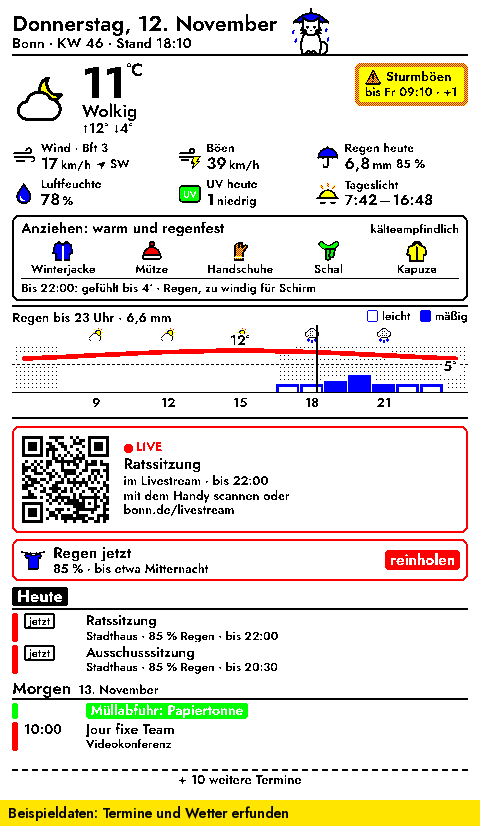
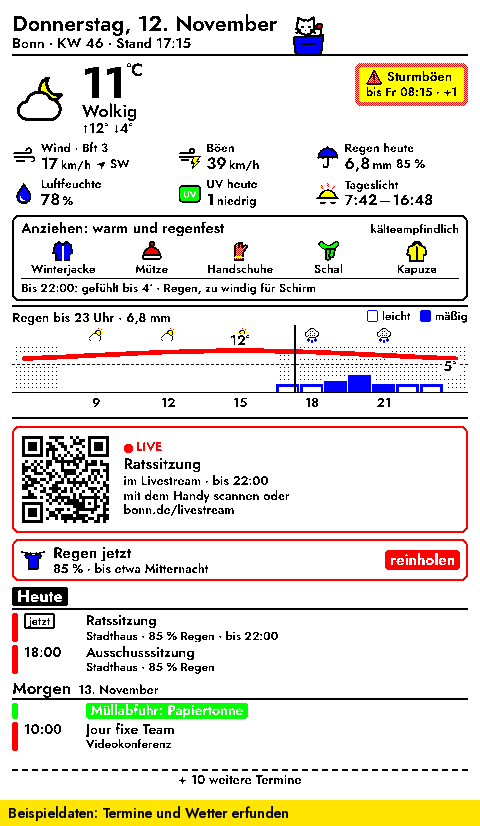
1.27: Katze in der Ratssitzung
Solange die Livestream-Karte zur Ratssitzung steht, steht die Katze am
Rednerpult; ab 21 Uhr schläft sie auf einem Stapel Aktenordner. Wie die
anderen Anlässe nur auf jedem zweiten Takt, aber vor Osterei und Wetter
(Geburtstag > Ratssitzung > Osterei > Wetter > Anlässe > Alltag).
Keine neue Einstellung (cfgVersion 20). Ohne Sitzung pixelgleich zu 1.26.

Neu: Posen rednerpult und akten in katze.py, Anlass „rat“; Livestream-Block
vor die Katzenwahl gezogen; Tests in dev/test_katze.py; docs/katze_posen.png
(26 Posen) und docs/livestream_*.png neu.

Claude-Session: https://claude.ai/code/session_01XTVaJp3hLhCWEFfKwqVFMA

diff --git a/tagesdashboard/katze.py b/tagesdashboard/katze.py
@@ -396,6 +396,28 @@ def grundgesetz():
     return 40, 44, _sitting_body() + _head(20, 13) + book + paws
 
 
+# ---------------------------------------------------------------- Ratssitzung (seit 1.27, solange die Livestream-Karte steht)
+
+def rednerpult():
+    """Spricht am Rednerpult ins Mikrofon: breites blaues Pult verdeckt den Körper, großer roter
+    Mikrofonkopf am Schwanenhals rechts neben dem Gesicht."""
+    desk = (f'<path fill="{BLUE}" stroke="currentColor" d="M3 23.5 L37 21 L34.5 43.5 H5.5 Z"/>'
+            f'<path {L} d="M13 31 H27"/>')
+    mic = (f'<path {L} d="M33.5 21.5 Q35.5 15 33.5 12.5"/>'
+           f'<circle fill="{RED}" stroke="currentColor" cx="32.5" cy="10.5" r="3"/>')
+    return 41, 44, _head(17, 12) + desk + mic
+
+
+def akten():
+    """Spät in der Ratssitzung (ab RAT_LATE_HOUR): schläft auf einem Stapel bunter Aktenordner."""
+    w, h, cat = schlaeft()
+    stack = (f'<path fill="{BLUE}" stroke="currentColor" d="M4 30 H46 V34.5 H4 Z"/>'
+             f'<path fill="{RED}" stroke="currentColor" d="M7 34.5 H49 V39 H7 Z"/>'
+             f'<path fill="{YELLOW}" stroke="currentColor" d="M3 39 H45 V43.5 H3 Z"/>'
+             f'<path {L} d="M38 32.2 H42 M41 36.7 H45 M37 41.2 H41"/>')
+    return 54, 44, f'<g transform="translate(0 1)">{cat}</g>' + stack
+
+
 POSES = {
     "sitzt": sitzt, "putzt": putzt, "schmetterling": schmetterling, "schläft": schlaeft,
     "kastenbrot": kastenbrot, "lugt": lugt, "spielt": spielt, "streckt": streckt,
@@ -406,6 +428,8 @@ POSES = {
     # Ostereier (seit 1.24): nie zufällig, nur an ihrem Tag (ostereier.today)
     "narr": narr, "dirigent": dirigent, "schwarz": schwarz, "himbeerkuchen": himbeerkuchen,
     "kürbis": kuerbis, "grundgesetz": grundgesetz,
+    # Ratssitzung (seit 1.27): nur über choose(occasions=["rat"]), nie zufällig
+    "rednerpult": rednerpult, "akten": akten,
 }
 # Ostereier (seit 1.24): nur über choose(egg=…); geheim, darum auch nicht auf dem Posen-Bogen für die README
 EGG_POSES = ("narr", "dirigent", "schwarz", "himbeerkuchen", "kürbis", "grundgesetz")
@@ -416,6 +440,9 @@ EVERYDAY = ["sitzt", "putzt", "schmetterling", "gähnt", "schläft", "kastenbrot
 WEATHER_POSE = {"sturm": "sturm", "regen": "schirm", "schnee": "schal", "frost": "schal", "sonne": "sonnt"}
 # Anlässe (seit 1.20): Anlass → Pose. Geburtstag geht dem Wetter vor, die übrigen kommen nach dem Wetter.
 OCCASION_POSE = {"geburtstag": "partyhut", "nachrichten": "zeitung", "zug": "koffer", "waesche": "socke"}
+# Ratssitzung (seit 1.27, Anlass „rat“ = die Livestream-Karte steht): Rednerpult, ab 21 Uhr schläft sie auf den Akten.
+# Kommt wie die übrigen Anlässe nur auf jedem zweiten Takt, aber vor Osterei und Wetter (Leons Wahl).
+RAT_POSE, RAT_LATE_POSE, RAT_LATE_HOUR = "rednerpult", "akten", 21
 # Flache Posen passen auch auf Linien mit wenig Platz darüber
 FLAT_MAX_H = 34
 SPOTS = ["kopf", "tag", "mehr"]
@@ -507,11 +534,13 @@ def occasion_slot(now):
 def choose(now, records=None, nowcast=None, weather=True, feels_like=None, occasions=(), egg=None):
     """Was die Katze diesmal tut und wo sie es zuerst versucht.
 
-    occasions – aktive Anlässe aus OCCASION_POSE (geburtstag, nachrichten, zug, waesche)
+    occasions – aktive Anlässe aus OCCASION_POSE (geburtstag, nachrichten, zug, waesche) und „rat“
+                (seit 1.27: Ratssitzung läuft, die Livestream-Karte steht)
     egg       – Pose eines Ostereis (seit 1.24, ostereier.today) oder None
 
-    Rangfolge: Geburtstag > Osterei > Wetter > übrige Anlässe > Alltag. Anlässe (auch der Geburtstag) zählen
-    nur in jedem zweiten Takt (occasion_slot); Osterei und Wetter gelten immer, wenn sie zutreffen.
+    Rangfolge: Geburtstag > Ratssitzung > Osterei > Wetter > übrige Anlässe > Alltag. Anlässe (auch Geburtstag
+    und Ratssitzung) zählen nur in jedem zweiten Takt (occasion_slot); Osterei und Wetter gelten immer, wenn sie
+    zutreffen – an einem Ostereier-Tag mit Ratssitzung wechseln sich also Osterei und Rednerpult ab.
 
     main  – Pose, die sie am liebsten zeigt
     flat  – flache Pose für Linien mit wenig Platz darüber
@@ -523,11 +552,15 @@ def choose(now, records=None, nowcast=None, weather=True, feels_like=None, occas
     slot = slot_of(now)
     day = now.date()
     everyday = _day_order(EVERYDAY, day, "pose")
-    active = [o for o in OCCASION_POSE if o in set(occasions)] if occasion_slot(now) else []
+    on_slot = occasion_slot(now)
+    active = [o for o in OCCASION_POSE if o in set(occasions)] if on_slot else []
     others = [o for o in active if o != "geburtstag"]
+    council = on_slot and "rat" in set(occasions)
     weather_why = weather_reason(records, now, nowcast, feels_like) if weather else None
     if "geburtstag" in active:  # nur auf Anlass-Takten, an Ostereier-Tagen also im Wechsel mit dem Osterei
         reason, main = "geburtstag", OCCASION_POSE["geburtstag"]
+    elif council:  # Ratssitzung (seit 1.27): vor Osterei und Wetter, spät schläft sie auf den Akten
+        reason, main = "rat", RAT_LATE_POSE if now.hour >= RAT_LATE_HOUR else RAT_POSE
     elif egg:  # Ostereier (seit 1.24): an ihrem Tag in jedem Takt, vor dem Wetter
         reason, main = "osterei", egg
     elif weather_why:
@@ -542,7 +575,7 @@ def choose(now, records=None, nowcast=None, weather=True, feels_like=None, occas
     spots = _day_order(SPOTS, day, "spot")
     k = slot % len(spots)
     spots = spots[k:] + spots[:k]
-    if reason and not is_flat(main):  # Schirm, Schal, Partyhut, Zeitung, Koffer brauchen Höhe: zuerst die Kopfzeile
+    if reason and not is_flat(main):  # Schirm, Schal, Partyhut, Zeitung, Koffer, Pult, Akten brauchen Höhe: zuerst die Kopfzeile
         spots.remove("kopf")
         spots.insert(0, "kopf")
     seed = random.Random(f"{day.isoformat()}/{slot}").randrange(1000)

diff --git a/tagesdashboard/tagesdashboard.py b/tagesdashboard/tagesdashboard.py
@@ -459,13 +459,26 @@ class Tagesdashboard(BasePlugin):
         if mode == "normal" and use_colors and ostereier.rainbow(records, now):
             params["rainbow"] = ostereier.RAINBOW_SVG
             logger.info("Osterei: Regenbogen")
+        # ---- Livestream (seit 1.25): QR-Code zum Stream, solange eine Ratssitzung läuft ----
+        live_words = opt("liveWords") or livestream.DEFAULT_WORDS
+        today_events = next((d["events"] for d in params.get("calendar") or [] if d.get("is_today")), [])
+        if mode == "normal" and flag("liveEnabled"):
+            try:
+                card = livestream.card(today_events, live_words, opt("liveUrl"), now)
+            except Exception:  # Zusatz: nie das ganze Bild verlieren (z. B. Adresse zu lang für einen QR-Code)
+                card = None
+                logger.exception("Livestream-Karte konnte nicht erzeugt werden")
+            if card:
+                params["live"] = card
+                logger.info("Livestream: %s %s → %s", card["title"], card["until"], card["href"])
         if flag("catEnabled") and mode == "normal":
             try:
                 occasions = [name for name, on in (
                     ("geburtstag", any(g["kind"] == "geburtstag" for g in params["greetings"])),
                     ("nachrichten", bool(params.get("news"))),
                     ("zug", bool(params.get("train"))),
-                    ("waesche", bool(params.get("laundry")))) if on]
+                    ("waesche", bool(params.get("laundry"))),
+                    ("rat", bool(params.get("live")))) if on]  # seit 1.27: Rednerpult/Akten zur Ratssitzung
                 params["cat"] = katze.choose(now, records, nowcast, weather=flag("catWeather"),
                                              feels_like=dwd.feels_like, occasions=occasions,
                                              egg=egg["pose"] if egg else None)
@@ -479,19 +492,6 @@ class Tagesdashboard(BasePlugin):
             card = self.wahl_card(params, wahl_cfg, today, weather, records)
             if card:
                 params["wahl_card"], params["wahl_icon"] = card, WAHL_ICON.format(cls="lw-svg")
-        # ---- Livestream (seit 1.25): QR-Code zum Stream, solange eine Ratssitzung läuft ----
-        live_words = opt("liveWords") or livestream.DEFAULT_WORDS
-        today_events = next((d["events"] for d in params.get("calendar") or [] if d.get("is_today")), [])
-        if mode == "normal" and flag("liveEnabled"):
-            try:
-                card = livestream.card(today_events, live_words, opt("liveUrl"), now)
-            except Exception:  # Zusatz: nie das ganze Bild verlieren (z. B. Adresse zu lang für einen QR-Code)
-                card = None
-                logger.exception("Livestream-Karte konnte nicht erzeugt werden")
-            if card:
-                params["live"] = card
-                logger.info("Livestream: %s %s → %s", card["title"], card["until"], card["href"])
-
         if mode == "urlaub":
             self.urlaub_view(params, vacation, today, weather, dimensions, tz, now)
         if mode == "fest":

diff --git a/dev/test_katze.py b/dev/test_katze.py
@@ -148,6 +148,31 @@ def main():
     starts = {katze.occasion_slot(datetime(2026, 11, d, 6, 0, tzinfo=TZ)) for d in range(1, 15)}
     check(starts == {True, False}, "welcher Takt beginnt, wechselt von Tag zu Tag")
 
+    print("Ratssitzung (seit 1.27)")
+    session = datetime(2026, 11, 12, 17, 0, tzinfo=TZ)
+    slots = [session + timedelta(minutes=15 * i) for i in range(20)]           # 17–22 Uhr
+    picks = [katze.choose(t, occasions=["rat"]) for t in slots]
+    rat = [c for c in picks if c["reason"] == "rat"]
+    check(len(rat) == 10, f"Ratssitzung jedes zweite Mal ({len(rat)} von 20)")
+    check(all((c["main"]["name"] == "akten") == (t.hour >= katze.RAT_LATE_HOUR)
+              for t, c in zip(slots, picks) if c["reason"] == "rat"), "vor 21 Uhr Rednerpult, ab 21 Uhr nur Akten")
+    check({c["main"]["name"] for c in rat} == {"rednerpult", "akten"}, "beide Posen kommen vor")
+    occ = next(t for t in slots if katze.occasion_slot(t))
+    plain = next(t for t in slots if not katze.occasion_slot(t))
+    c = katze.choose(occ, rain(occ), occasions=["rat"], feels_like=feels_like)
+    check(c["main"]["name"] == "rednerpult", "Ratssitzung geht dem Wetter vor (Anlass-Takt, Regen)")
+    check(c["spots"][0] == "kopf", "Rednerpult braucht Höhe → zuerst die Kopfzeile")
+    c = katze.choose(plain, rain(plain), occasions=["rat"], feels_like=feels_like)
+    check(c["main"]["name"] == "schirm", "im anderen Takt gilt das Wetter")
+    c = katze.choose(occ, occasions=["rat"], egg="narr")
+    check(c["main"]["name"] == "rednerpult", "Ratssitzung geht dem Osterei vor (Anlass-Takt)")
+    check(katze.choose(plain, occasions=["rat"], egg="narr")["main"]["name"] == "narr", "… im anderen Takt das Osterei")
+    c = katze.choose(occ, occasions=["rat", "geburtstag", "waesche"])
+    check(c["main"]["name"] == "partyhut", "Geburtstag geht der Ratssitzung vor")
+    c = katze.choose(occ, occasions=["rat", "waesche"])
+    check(c["main"]["name"] == "rednerpult", "Ratssitzung geht der Wäsche-Karte vor")
+    check(not {"rednerpult", "akten"} & set(katze.EVERYDAY), "Ratssitzungs-Posen kommen nie im Alltag")
+
     print("Zeichnungen")
     for name in katze.POSES:
         p = katze.pose(name)

diff --git a/CLAUDE.md b/CLAUDE.md
@@ -23,7 +23,7 @@ tagesdashboard/        Wetter + Kalender auf einem Bild, eigenständig installie
   kleidung.py            Regeln und SVG-Symbole der Kleidungsempfehlung, Vergleich mit dem Vortag (seit 1.22)
   bahn.py                Live-Daten eines Pendelzuges (DB Timetables-API / IRIS)
   strecke.py             Streckenmeldungen zum Pendelzug aus der VRR-Auskunft (Vorwarnung, seit 1.13)
-  katze.py               kleine Linien-Katze: Posen, Wetter- und Anlassregeln, Auswahl (seit 1.14; Platz sucht placeCat im Template)
+  katze.py               kleine Linien-Katze: Posen, Wetter- und Anlassregeln, Auswahl (seit 1.14; Platz sucht placeCat im Template; Ratssitzung seit 1.27)
   nachrichten.py         Morgen-Schlagzeilen Bonn/NRW/Bund (+ optional Frankreich) aus RSS-Feeds
   radar.py               Regenradar: Regen der nächsten zwei Stunden am Wetter-Ort (DWD RV über Bright Sky)
   luft.py                Luftqualität: Karte ab „mäßig“ (sensor.community, Rückfall Messstation des UBA)
@@ -264,6 +264,7 @@ python dev/test_urlaub.py                                             # Urlaubsb
 python dev/test_wahlkampf.py                                          # Wahlkampf-Karte: Wahlart, Termin, Countdown, Kartentage
 DEV_PROTO=rat python dev/render.py tagesdashboard --time "2026-11-12 18:10" --simulate   # Livestream-Karte (Termin „Ratssitzung“ 17–22 Uhr); 16:59/22:00 = pixelgleich ohne
 python dev/test_livestream.py                                         # Livestream-Karte: Stichwörter, Zeitraum, Adresse, QR lesbar, Fenstergrenzen
+DEV_PROTO=rat python dev/render.py tagesdashboard --time "2026-11-12 17:15"   # Katze am Rednerpult (21:15: schläft auf Akten; 17:00: anderer Takt, Schirm)
 python dev/test_iss.py                                                # ISS: TLE-Cache, Überflüge, Schatten, Helligkeit, Schwellen, Texte
 python dev/test_abgelehnt.py                                          # abgelehnte Einladungen: Adressen, nur eigene Absage, Serien
 DEV_PROTO=einladung python dev/render.py nextcloud_kalender            # Gegenproben: zugesagt/offen sichtbar, Serie ohne den abgelehnten Tag
@@ -337,6 +338,7 @@ Die Kleidungsregeln lassen sich ohne Rendern testen: `kleidung.empfehlen([...Stu
 - **Ausschaltbild (`ausschaltbild/`, seit 15.11., kein Plugin):** systemd-Dienst `inkypi-ausschaltbild.service` mit `Type=oneshot`, `RemainAfterExit=yes`, `ExecStart=/bin/true`, `ExecStop=… ausschaltbild.py --beim-ausschalten`, `TimeoutStopSec=90`, **`Before=inkypi.service`** – beim Herunterfahren stoppt systemd in umgekehrter Startreihenfolge, also erst InkyPi (Display frei), dann ExecStop; die Standard-Abhängigkeiten halten die Speicherkarte bis danach beschreibbar. Läuft mit InkyPis Python (`/usr/local/inkypi/venv_inkypi/bin/python`), Schrift `Jost-SemiBold.ttf` aus `/usr/local/inkypi/src/static/fonts`. **Nur beim Ausschalten:** `systemctl list-jobs` muss `poweroff.target` oder `halt.target` mit `start` zeigen; Neustart (reboot/kexec/soft-reboot) und bloßes Stoppen (Deinstallation) lassen das Display in Ruhe. InkyPis Knopf „Shutdown“ ruft `sudo shutdown -h now` → wirkt genauso. **Bild ohne Chromium** (Zeit beim Herunterfahren; hier 0,4 s): Pillow zeichnet 4-fach überabgetastet (1600×1200: 2-fach, Speicher auf dem Pi Zero) und verkleinert mit `BOX`, dann `eink.snap`. Grund für die Überabtastung auch beim Text: In Originalgröße rundet FreeType jeden Buchstaben einzeln („gef ahren“, „ist er“). Die Katze sind die Pfade von `katze.schlaeft()` (eigener kleiner Pfad-Parser für M, L, Q, Z, h, l; Q wird in 14 Strecken zerlegt, runde Linienenden als Kreise, weil PIL nur eckige kennt); **Abweichung:** Der Körper beginnt bei `M12 29 Q8 13` statt `M5 29 Q3 13`, sonst laufen bei 6-facher Größe Körper- und Kopflinie links als Doppellinie nebeneinander. `test_ausschaltbild.py` vergleicht die übrigen Pfade mit `katze.py`. Dazu ein gelbes Kissen mit Zipfeln und zwei blaue „Z“ mit Abstand zum Rücken (Blau auf der schwarzen Linie wären Kanten aus drei Farben). Größen in `--u` wie im Dashboard: Zeichnung 38 u (hochkant 46 u), Titel 7 u, Hinweis 3,2 u, klein 2,3 u. Zwei Zeilen werden ausgeglichen umbrochen („Der Stecker kann jetzt / gezogen werden.“). **Wie InkyPi drehen:** hochkant `rotate(90, expand=1)`, `inverted_image` +180° (Test vergleicht mit InkyPis `change_orientation`); Sättigung `image_settings.inky_saturation` → `eink.palette_for`; `set_border(BLACK)` wie InkyPi; InkyPis Bildverbesserung (Helligkeit usw.) wird nicht angewandt (soll ohnehin 1,0 sein). **Prüfsumme:** InkyPi speichert `refresh_info.image_hash` in `device.json` und überspringt nach dem Start ein gleiches Bild (`Image already displayed`) – das Nachtbild ist die ganze Nacht gleich, das Ausschaltbild bliebe stehen. Darum setzt das Skript nach dem Zeichnen `image_hash` auf `null` (atomar: Zwischendatei + `os.replace`, Rechte bleiben, `indent=4` wie InkyPi). Fehler halten das Herunterfahren nie auf (Exit 0, Zeile in `letzter-lauf.txt` neben dem Skript und im Journal). `--zeigen` (Test) verweigert, solange `inkypi.service` läuft (GPIO belegt). **Nach dem Start sofort neu zeichnen (1.1):** InkyPis `RefreshTask._run` beginnt mit `condition.wait(timeout=plugin_cycle_interval_seconds)` – nach jedem Start (Einschalten, `systemctl restart`) zeichnet InkyPi erst nach einem ganzen Takt (bei Leon 15 min); das Startbild gibt es nur einmal nach der Installation (`startup` in `device.json`). Zweiter Dienst `inkypi-ausschaltbild-start.service`: `WantedBy=inkypi.service` (wird bei jedem Start von InkyPi mitgestartet, auch bei Restart und nach `Restart=on-failure`), `After=`, `PartOf=inkypi.service`, **`Type=exec`** (mit `oneshot` hinge `systemctl restart inkypi.service` im Terminal, bis das Display fertig ist), `ExecStart=… --nach-dem-start`. `install.sh` macht `enable` ohne `--now` (sonst zeichnet es schon bei der Installation). Ablauf `redraw_after_start`: warten, bis `http://127.0.0.1:80/` antwortet (bis 180 s; InkyPi ist `Type=simple`, „gestartet“ heißt nur „Prozess läuft“), dann `device.json` lesen (erst jetzt – InkyPi schreibt beim Start hinein), Instanz wählen und `POST /display_plugin_instance` mit `{"playlist_name", "plugin_id", "plugin_instance"}` = InkyPis Knopf „Display“ (`PlaylistRefresh(force=True)` über `manual_update`, antwortet erst, wenn das Display fertig ist → Timeout 240 s). Bei Fehler (z. B. Plugin noch ohne Netz → HTTP 500) bis zu 3 Versuche im Abstand von 30 s, danach aufgeben (nächster Takt). Endet nie mit Fehler. **Instanzwahl wie InkyPi** (`active_instance`, Test gegen `PlaylistManager.determine_active_playlist`): aktive Playlists (`start ≤ HH:MM < end`, über Mitternacht), kürzeste gewinnt, darin `current_plugin_index` (zuletzt gezeigt), sonst die erste. **Stolperfalle:** InkyPi wählt auch eine aktive Playlist **ohne** Plugins (der Kommentar „that have plugins“ in `determine_active_playlist` stimmt nicht) und zeigt dann nichts – wir dann auch nicht; eine erste Fassung übersprang leere Playlists und hätte ein Bild gezeigt, das InkyPi um diese Zeit nie zeigt (vom Vergleichstest gefunden). Ende-zu-Ende geprüft mit `inkypi.py --dev` (Schein-Display, Playlist mit `year_progress`): neu gezeichnet ~2 s nach dem Serverstart statt nach 15 min. `letzter-lauf.txt` behält die letzten 200 Zeilen (`LOG_KEEP`). **Veröffentlicht** im öffentlichen Repo `leonschwarze/InkyPi_Ausschaltbild` (seit 16.11.): `ausschaltbild/` (ohne `__pycache__`), `README.md` = `dev/paket/README-Ausschaltbild.md`, `docs/ausschaltbild_*.png`, `.gitignore` – wie beim Dashboard-Repo hier entwickeln, dann dorthin kopieren. Auf dem Pi ungeprüft: echte Dauer (Erwartung ~30 s Display, Busy-Wait des Treibers bis 32 s), Reihenfolge im echten Shutdown, Journal nach dem Neustart.
 - **Ostereier (`ostereier.py`, seit 1.24) – GEHEIM:** Leon hat die Eastereggs selbst ausgesucht und wollte, dass sie **nur hier** stehen: nicht in der README (dort nur „ein paar Überraschungen“), kein Schalter, keine Erwähnung in `settings.html` – wer sonst aufs Display schaut, soll überrascht werden. Bitte so lassen. **Tage** (`today(now)` → `{name, pose, greeting}`), nur in der normalen Ansicht: 11.11. **ab 11:11** Narrenkappe in Bonns Rot-Gelb + Gruß „Bonn Alaaf!“; Karneval von Weiberfastnacht (Ostern − 52, Gruß „Beuel Alaaf!“ – die Weiberfastnacht ist 1824 in Beuel entstanden) bis Veilchendienstag (Ostern − 47), Rosenmontag „Bonn Alaaf!“, übrige Tage nur die Kappe; 17.12. (Beethoven 1770 in Bonn getauft) dirigierende Katze mit zwei Noten, ohne Text; 23.5. (Grundgesetz 1949 in Bonn verkündet) Buch in Schwarz-Rot-Gold + „77 Jahre Grundgesetz“; 14.3. (π-Tag; das Display hängt an einem Raspberry Pi) π auf einem Himbeerkuchen; 31.10. Kürbis (gelb, Orange kann das Display nicht); Freitag, der 13., schwarze Katze (die spazierende Pose ganz schwarz, gelbe Augen; im Schwarz-Weiß-Modus weiße). Ostern nach dem anonymen gregorianischen Algorithmus (`easter`, Test über zehn bekannte Jahre und 1990–2099). Reihenfolge, falls zwei zusammenfallen: 11.11. > Karneval > 17.12. > 23.5. > 14.3. > 31.10. > Freitag 13. (z. B. Rußiger Freitag 13.2.2026 = Kappe). Grüße stehen wie die Festtage im Kopf (`greetings`, `kind` „osterei“, ohne Symbol – die Katze ist das Symbol; mit `catEnabled` aus bleibt nur der Gruß). **Katze:** `katze.choose(egg=…)`; Rangfolge jetzt **Geburtstag > Osterei > Wetter > Anlässe > Alltag** – der Geburtstag zählt ohnehin nur auf jedem zweiten Takt, an einem Ostereier-Tag mit Geburtstag wechseln sich also Partyhut und Osterei ab; das Osterei steht vor dem Wetter (Freitag 13. bei Regen: schwarze Katze, kein Schirm). Die Posen (`narr`, `dirigent`, `schwarz`, `himbeerkuchen`, `kürbis`, `grundgesetz`) sind in `POSES`, nie in `EVERYDAY`; hohe Posen gehen zuerst auf die Kopfzeile. Passt die hohe Pose nirgends, kommt wie immer eine flache Alltags-Pose (dann fällt das Osterei aus, bewusst). In Displaygröße vergröbert: π aus Linien (gefüllt wirkte es wie ein Tisch), Himbeeren auf dem Kuchen (auf dem π sahen sie aus wie Köpfe), Kürbis mit großen Dreieckaugen ohne Rippe. **Cache:** `ostereier.boundaries` (Mitternacht, 11.11. 11:11) im Bild-Cache (nur mit Zug). **Regenbogen** (`rainbow`): laufende Stunde nach Zeitstempel (wie die Katze) mit ≥ 15 Sonnenminuten und ≥ 0,1 mm, kein Schnee → `params.rainbow`, ein SVG mit vier Bändern (Rot, Gelb, Grün, Blau; 4,2 breit) hinter dem Wettersymbol, 11 × 11 u, links −1,1 u, oben −1,3 u, damit er neben Wolke und Sonne sichtbar ist; nur mit Farben (`useColors`). Mock-Szenario `regenbogen` (heute 14–16 Uhr Schauer bei Sonne). **Sternbild Katze** (`felis_night`, `felis_svg`): Lalandes „Felis“ (1799, Katzenfreund; 1801 bei Bode gezeichnet, 1930 nicht in der IAU-Liste) als sitzende Katze von vorn aus elf Sternen mit weißen Linien (eine erste Fassung im Profil sah aus wie ein Tisch), nur bei Bewölkung < 30 %, ohne Niederschlag und Nebel, und nur in etwa 6 % der Nächte (`FELIS_CHANCE`, Zufall nach Datum → das Nachtbild bleibt die Nacht über gleich, `nightFreeze` wirkt). Lage in `nachtgrafik.svg(felis=…)`: ganz rechts über dem Siebengebirge (`max(hills_x + 54, W − 38 k − 20)`, k 0,85, y 4–40), rechts vom höchsten Mond-Platz und vom Ende der ISS-Bahn (0,88 W); in einer Oppositionsnacht steht dort der Planet, dann kein Sternbild. Verbraucht keinen Zufall des Himmels (ohne Sternbild pixelgleich, getestet). **Geheim halten:** `katze.EGG_POSES` lässt `dev/katze_bogen.py` ohne `--ostereier` aus, damit `docs/katze_posen.png` beim Neuerzeugen nichts verrät; keine Screenshots der Ostereier in `docs/`. Ohne Osterei ist alles pixelgleich zu 1.23 (geprüft: Standard, Winter, Sommer, Abend, Nachrichten, Zug spät, Nacht, Nacht klar, Woche, Geburtstag, Schwarz-Weiß, Radar+Luft, 11.11. 11:05, Fest; quer/hochkant). Log: `journalctl -u inkypi.service | grep Osterei`.
 - **Livestream-Karte (`livestream.py`, seit 1.25, Variante A):** Leons Wunsch „Kannst Du während des Termins ‚Ratssitzung‘ eine Box einblenden, in der per QR-Code der Livestream zur Sitzung verlinkt wird?“. Karte ganz oben in der Terminspalte (vor der Wahlkampf-Karte; Klassen `.xcard .live`, Rahmen rot, im Schwarz-Weiß-Modus in Textfarbe): QR-Code links, rechts „● LIVE“, Termintitel, „im Livestream · bis 22:00“, „mit dem Handy scannen oder“, Kurzadresse (`short_url`, ohne `https://www.`). Sichtbar, solange ein heutiger, nicht ganztägiger Termin mit Stichwort (`liveWords`, Standard „Ratssitzung“, Komma-Liste, Teilwort, ohne Groß/Klein) läuft: `start ≤ jetzt < ende` (genau zum Ende weg); bei zwei zugleich der früher begonnene. Nur normale Ansicht (Nacht-, Wochen-, Fest-, Urlaubsbild unverändert). **Adresse:** Standard `https://www.bonn.de/livestream` – die Stadt überträgt Rat und Bezirksvertretungen auf YouTube (`youtube.com/bundesstadtbonn`) und auf dieser Seite und verlinkt den Stream dort am Sitzungstag; ein YouTube-Link wechselt je Sitzung. `liveUrl` leer → Standard, ohne Schema → `https://` davor. **QR-Code:** `lib/segno` (Kopie, kein `pip` auf dem Pi), Fehlerkorrektur mindestens M (segno hebt sie auf Q, solange die Version gleich bleibt); die Standardadresse ergibt Version 3 = 29 Module, plus Ruhezone `QUIET` 2 Module je Seite (Norm 4, die weiße Karte ringsum gibt mehr; OpenCV liest es). SVG mit einem Modul = 1 Einheit, waagerechte Läufe als Pfad, eigener weißer Grund (auch bei dunklem Hintergrund), `shape-rendering="crispEdges"`. **Pixelgenau:** `fitQr()` im Template setzt die Kantenlänge auf `m × n` px mit `m = max(3, floor(Wunsch / n))` (Wunsch 11,6 u aus dem CSS) und schiebt den Code nach dem Layout per `transform` auf ganze Pixel – sonst werden Module ungleich breit. Aufruf am Anfang von `fitAll()` (Größe) und am Ende vor `placeCat` (Lage). Ergebnis bei 800×480, 480×800 und 600×448: 87 px, jedes Modul 3 px (≈ 0,6 mm, Code ≈ 17 mm, aus 10–20 cm scannbar); 1600×1200: 5 px. Längere Adressen (YouTube-Link mit `watch?v=…`) → Version 4, 33 Module = 99 px, Karte wird etwas höher. **Katze** weicht der ganzen Karte aus (`.live` in der Hindernisliste von `placeCat`; `.xcard` bewusst nicht, damit die Wahlkampf-Karte pixelgleich bleibt). **Bild-Cache** (nur mit Zug): Beginn und Ende der heutigen Stichwort-Termine sind Fenstergrenzen (`livestream.boundaries`). Keine neue Datenquelle, nichts in der Statusanzeige. Mock: `DEV_PROTO=rat` legt „Ratssitzung“ heute 17–22 Uhr im Stadthaus an. Ohne laufende Sitzung pixelgleich zu 1.24 (geprüft: Standard, Abend, Nachrichten, Zug spät, Nacht, Woche, Winter, Radar+Luft, Fest, Osterei 11.11., Schwarz-Weiß, Ratssitzung 16:59 / 22:00 / Schalter aus; quer/hochkant). Prüfen, ob ein Code lesbar ist: `cv2.QRCodeDetector().detectAndDecode` auf der `_display.png` (bei 1× findet OpenCV den Code neben viel Text nicht immer, 3× vergrößert ohne Glättung zuverlässig) und die Lauflängen schwarzer Pixel müssen Vielfache von `m` sein.
+- **Katze in der Ratssitzung (seit 1.27):** Leons Wunsch „Kann die Katze auch was passend zur Ratssitzung machen?“. Anlass `rat` = die Livestream-Karte steht (`params["live"]`; der Block steht deshalb jetzt **vor** der Katzenwahl in `generate_image`). Ohne Karte (Schalter `liveEnabled` aus, Sitzung abgelehnt, kein Stichwort) keine Ratssitzungs-Katze. Posen `rednerpult` (blaues Pult verdeckt den Körper, großer roter Mikrofonkopf am Schwanenhals rechts neben dem Gesicht; eine erste Fassung mit kleinem schwarzem Mikro sah in Displaygröße wie ein Eimer aus) und ab `RAT_LATE_HOUR` (21 Uhr) nur noch `akten` (schlafende Katze auf drei Ordnern Blau/Rot/Gelb mit Rückenschildern); beide 44 hoch, also zuerst die Kopfzeile. Wie die übrigen Anlässe nur auf Anlass-Takten (`occasion_slot`), aber **Rangfolge Geburtstag > Ratssitzung > Osterei > Wetter > übrige Anlässe > Alltag** (Leons Wahl „vor dem Wetter“): bei Regen wechseln Rednerpult und Schirm, an einem Ostereier-Tag Rednerpult und Osterei. Nicht in `EVERYDAY`, nicht in `OCCASION_POSE` (die Pose hängt an der Uhrzeit; eigene Konstanten `RAT_POSE`, `RAT_LATE_POSE`). Keine Einstellung, cfgVersion bleibt 20. `docs/katze_posen.png` zeigt jetzt 26 Posen. Ohne Ratssitzung und auf den Takten ohne Anlass pixelgleich zu 1.26 (36 Bilder: Standard, Abend, Nachrichten, Zug, Nacht, Woche, Winter, Radar+Luft, Fest, Osterei, Schwarz-Weiß, Sitzung 16:59/17:00/22:00, Sitzung ohne Katze, Schalter aus, abgelehnte Sitzung; quer/hochkant). Rendern: `DEV_PROTO=rat … --time "2026-11-12 17:15"` (Rednerpult), `21:15` (Akten), `17:00` (Schirm, anderer Takt).
 - **Python vs. CSS auf dem Pi:** CSS- und HTML-Änderungen wirken beim nächsten „Update Now“. Python-Änderungen brauchen `sudo systemctl restart inkypi.service`.
 
 ## Entscheidungen
@@ -361,6 +363,7 @@ Die Kleidungsregeln lassen sich ohne Rendern testen: `kleidung.empfehlen([...Stu
 - Statusanzeige (1.21, aus der Ideen-Runde vom 13.11. „Hinweis bei länger ausgefallener Datenquelle“, gewünscht, weil Anfahrt und Störungsmonitor noch nicht live geprüft sind): roter Punkt mit dem Namen der Quelle im Kopf, nach etwa 2 Stunden „seit 9:10 nicht erreichbar“ – Leons Vorgabe. Gelesen als zwei Stufen (Punkt + Name sofort beim ersten Fehler, voller Hinweis ab 2 h). Rechts vor „Stand“, weil es um die Aktualität der Daten geht. Keine Einstellung, kein Schalter (angeboten). Nur in der normalen Ansicht. Datum, Ort und KW werden nie zugunsten des Status gekürzt (angeboten: „Bonn ·“ bei Ausfall weglassen, damit quer der volle Satz passt).
 - Vergleich mit gestern (1.22, aus der Ideen-Runde vom 13.11. „4 Grad kälter als gestern“): Variante A (in der Begründungszeile der Kleidungsempfehlung hinter „gefühlt bis …“) gewählt; B (rechts im Kopf der Empfehlung mit Pfeil, statt „kälteempfindlich“) und C (an der aktuellen Temperatur oben links, Kennzahl „jetzt gegen gestern um diese Uhrzeit“) verworfen. Kennzahl: kältester gefühlter Wert im Fenster der Empfehlung gegen dieselben Uhrzeiten gestern, ab 3 Grad, kälter und wärmer. Bei Platzmangel fallen hintere Gründe weg, nicht der Vergleich. Keine Einstellung.
 - Urlaubsbild, Wahlkampf-Karte, ISS-Überflug (1.23, aus der Ideen-Runde vom 15.11., alle drei von Leon gewählt): Urlaub **Variante B** (Abfahrtstafel; A Postkarte und C Mischform verworfen), Wahlkampf **Variante B** (Karte am Wahlkampftag; Wahlart und Wahltermin in den Einstellungen, auf Leons Wunsch), ISS **Variante C nur im Nachtbild** (Textzeile + gestrichelte Bahn mit Station). Echte Bahnberechnung (SGP4 mit Celestrak-TLE) statt einer Webschnittstelle für Überflüge, weil sie ohne Anmeldung und mit wenig Last auskommt. Wahltag nur für die Landtagswahl NRW 2027 eingebaut, sonst Termin Pflicht.
+- Katze in der Ratssitzung (1.27): aus vier gerenderten Entwürfen gewählt: **Rednerpult** und **Akten** (ab 21 Uhr nur noch Akten), **vor dem Wetter** auf jedem zweiten Takt. Nicht gewählt: Abstimmung (Pfote hoch mit roter Stimmkarte), Schaut mit (Laptop mit rotem Live-Punkt); als Häufigkeit nicht gewählt: wie die anderen Anlässe (Wetter geht vor) bzw. in jedem Takt.
 - Livestream-Karte (1.25): aus drei gerenderten Varianten **A** gewählt (rot gerahmte Karte oben in der Terminspalte, Code 17 mm); verworfen: B (Code direkt am Termin, „live“ statt „jetzt“ – kleinster Platzbedarf) und C (Box statt der Tageskurve, Code 4 px je Modul ≈ 23 mm, dafür fehlt die Kurve). **Einstellbar** (Leons Wahl): Schalter, Stichwörter, Adresse; Alternative war fest eingebaut. Adresse `bonn.de/livestream` statt YouTube, weil sie für jede Sitzung gleich bleibt.
 - Ostereier (1.24, Leons Wunsch „Baue ein paar Eastereggs in das Dashboard ein“): aus elf Prototypen (gerendert im Dashboard, in Displaygröße geprüft) gewählt: Karneval, Beethoven, Grundgesetz, Freitag der 13., π-Tag, Halloween, Regenbogen, Sternbild Katze. Nicht gewählt: Weltkatzentag 8.8. (Krone), Aprilfisch 1.4. (Papierfisch an der Katze), Tierarzt-Termin (Katze im zugeklebten Karton). **Geheim:** nur im Handbuch, nicht in der README, ohne Schalter (Leons Wahl; Alternativen waren README-Liste oder Checkbox „Überraschungen“).
 - Streckenmeldungen (1.13): Variante A gewählt (zusätzliche Zeile im Störungsmonitor mit eigenem Symbol); B (eigenes Feld „Strecke ok/gestört“ in der Zugkarte) und C (Vorwarnung schon vor dem Zeitfenster) verworfen. Quelle VRR-Auskunft statt RIS::Disruptions (kostenpflichtig). Vorwarnung immer gelb. Baustellen auf dem Abschnitt werden mitgezeigt (stehen hinter allem anderen). Idee aus dem Gespräch, nicht gebaut: Verspätung der Züge vor dem eigenen auf demselben Abschnitt (aus IRIS) als zweites Signal.
@@ -389,5 +392,6 @@ Die Kleidungsregeln lassen sich ohne Rendern testen: `kleidung.empfehlen([...Stu
 - Vergleich mit gestern (1.22) weiter, nur angeboten: Windchill-Sprung bei 10 °C glätten (z. B. Übergang 10–13 °C; ändert auch die Empfehlung und „gefühlt …“ in diesem Bereich); Schalter; Regen-Vergleich („gestern trocken“). Live beobachten: Kommt die Zeile zu oft/zu selten (Schwelle 3°)? Liefert Bright Sky für gestern lückenlos Messwerte (sonst greift die Abdeckung)? Log: `journalctl -u inkypi.service | grep Kleidung`.
 - 1.23 live prüfen: **ISS-Zeiten einmal mit Heavens-Above (Bonn) vergleichen** (Zeit, Richtung, Höhe, Helligkeit); lädt Celestrak vom Pi ohne 403? Kennt Bright Sky das Wetter für Orte außerhalb Deutschlands (Zielspalte)? Findet Open-Meteo Leons Reiseziele? Wie oft erscheint die ISS-Zeile (bei Schwelle 25° / −1,5 mag)? Kommt die Wahlkampf-Karte an den richtigen Tagen? Log: `journalctl -u inkypi.service | grep -i "iss\|urlaub\|wahl"`. Angeboten, nicht gebaut: Wahltermine weiterer Wahlarten fest hinterlegen, Urlaubsbild auch für Ganztagstermine ohne Stichwort, ISS auch als Hinweis am Abend davor.
 - Livestream-Karte (1.25) live prüfen: Liest Leons Handy den 17-mm-Code vom Display (sonst Modul 4 px, Karte höher)? Steht am Sitzungstag auf `bonn.de/livestream` wirklich der Stream (oder lieber direkt den YouTube-Kanal `youtube.com/@bundesstadtbonn/live`)? Heißt der Termin in Leons Kalender „Ratssitzung“? Log: `journalctl -u inkypi.service | grep Livestream`. Nicht gebaut, nur denkbar: Karte schon 15 min vor Beginn; Tagesordnung (ALLRIS/OParl) in der Karte.
+- Katze in der Ratssitzung (1.27) weiter, nur angeboten: Abstimmungs-Pose und „schaut mit“ (Entwürfe gab es); Uhrzeit für die Akten (21 Uhr) einstellbar. Live beobachten: Findet das Pult quer neben Gruß und Status Platz in der Kopfzeile?
 - Ostereier (1.24) weiter, nur angeboten: Weltkatzentag, Aprilfisch, Tierarzt-Karton (Posen-Entwürfe gab es schon); Schalter „Überraschungen“. Live beobachten: Kommt der Regenbogen bei echten Daten zu oft (Bright Sky meldet `sunshine` und `precipitation` stündlich – ein Schauer am Stundenrand reicht)? Findet die hohe Ostereier-Pose quer meist Platz in der Kopfzeile, auch mit Gruß und Status?
 - Nicht beauftragt, aber angedacht: Tasten-Dienst für das Inky Impression, NRW-Ferien/Feiertage für das Nachrichtenfenster.

diff --git a/dev/paket/README-Tagesdashboard.md b/dev/paket/README-Tagesdashboard.md
@@ -1,12 +1,18 @@
-# Tagesdashboard (Wetter & Kalender) für InkyPi – Version 1.26
+# Tagesdashboard (Wetter & Kalender) für InkyPi – Version 1.27
 
-Wetter vom DWD links, Nextcloud-Termine rechts, Kleidungsempfehlung, UV-Index, Pollenflug, Sternschnuppenströme, Mondfinsternisse und helle Planeten im Nachtbild, Zug mit Störungsmonitor, Morgen-Schlagzeilen, Wäsche-Karte, Nachtbild mit Bonner Silhouette, Wochenvorschau, Anfahrt zu Terminen, Festtage, Regenradar, Schlagzeilen aus Frankreich, Luftqualität, Streckenmeldungen und eine **kleine Katze**, die sich bei jeder Aktualisierung woanders versteckt – nachts schläft sie auf dem Mond über Bonn, mit Maus, Laserpunkt, Karton und passenden Posen zu Nachrichten, Zug, Wäsche und Geburtstag. Dazu eine **Statusanzeige** im Kopf, wenn eine Datenquelle ausfällt. Die Kleidungsempfehlung sagt, ob es **kälter oder wärmer als gestern** wird. Dazu ein **Urlaubsbild**, eine **Wahlkampf-Karte** und der **ISS-Überflug** im Nachtbild. Während einer **Ratssitzung** führt ein **QR-Code zum Livestream**. Neu: **abgelehnte Einladungen** erscheinen nicht mehr.
+Wetter vom DWD links, Nextcloud-Termine rechts, Kleidungsempfehlung, UV-Index, Pollenflug, Sternschnuppenströme, Mondfinsternisse und helle Planeten im Nachtbild, Zug mit Störungsmonitor, Morgen-Schlagzeilen, Wäsche-Karte, Nachtbild mit Bonner Silhouette, Wochenvorschau, Anfahrt zu Terminen, Festtage, Regenradar, Schlagzeilen aus Frankreich, Luftqualität, Streckenmeldungen und eine **kleine Katze**, die sich bei jeder Aktualisierung woanders versteckt – nachts schläft sie auf dem Mond über Bonn, mit Maus, Laserpunkt, Karton und passenden Posen zu Nachrichten, Zug, Wäsche, Geburtstag und Ratssitzung. Dazu eine **Statusanzeige** im Kopf, wenn eine Datenquelle ausfällt. Die Kleidungsempfehlung sagt, ob es **kälter oder wärmer als gestern** wird. Dazu ein **Urlaubsbild**, eine **Wahlkampf-Karte** und der **ISS-Überflug** im Nachtbild. Während einer **Ratssitzung** führt ein **QR-Code zum Livestream**. **Abgelehnte Einladungen** erscheinen nicht mehr. Neu: Die Katze steht während der Ratssitzung **am Rednerpult**.
 
 ## Installieren bzw. aktualisieren
 
 1. Den Ordner `tagesdashboard/` aus diesem Paket nach `InkyPi/src/plugins/tagesdashboard/` kopieren (vorhandenen Ordner ersetzen).
 2. `sudo systemctl restart inkypi.service` (Python-Dateien haben sich geändert).
 3. In der Web-Oberfläche die Plugin-Einstellungen öffnen und einmal speichern.
+
+## Neu in 1.27: die Katze in der Ratssitzung
+
+- Solange die Livestream-Karte zur Ratssitzung steht, tritt die Katze ans **Rednerpult** (blaues Pult, rotes Mikrofon). Ab **21 Uhr** ist es ihr zu lang geworden: Dann schläft sie auf einem **Stapel Aktenordner**.
+- Wie die anderen Anlass-Posen (Zeitung, Koffer, Socke) kommt sie nur bei jeder zweiten Aktualisierung, dazwischen macht sie, was sie sonst auch tut. Sie geht aber dem Wetter vor: Auch bei Regen steht sie am Pult statt unter dem Schirm, und bei der nächsten Aktualisierung hält sie wieder den Schirm.
+- Ist die Livestream-Karte ausgeschaltet oder die Sitzung abgelehnt, bleibt alles wie bisher. Keine neue Einstellung (cfgVersion bleibt 20). Der Python-Teil hat sich geändert: Ordner `tagesdashboard/` ersetzen und `sudo systemctl restart inkypi.service`.
 
 ## Neu in 1.26: abgelehnte Einladungen ausgeblendet
 
@@ -241,7 +247,7 @@ Mit simulierten Daten (Beispieltermine, Beispielverbindungen):
 - `katze_nacht_800x480.png`, `katze_nacht_480x800.png` – Nachtbild: Katze schläft auf dem Mond über Bonn
 - `katze_anlass_800x480.png` – im Nachrichtenfenster liest die Katze Zeitung (1.20)
 - `katze_anlass_480x800.png` – hochkant, Geburtstag: Partyhütchen geht dem Regenschirm vor (1.20)
-- `katze_posen.png` – alle 24 Posen (groß und in Displaygröße)
+- `katze_posen.png` – alle 26 Posen (groß und in Displaygröße)
 - `status_800x480.png` – Statusanzeige: der GA-Feed ist seit 5:05 nicht erreichbar, Bonn wird mit WDR-Meldungen ergänzt (1.21)
 - `status_480x800.png` – hochkant: Kalender seit 9:10 nicht erreichbar (1.21)
 - `gestern_800x480.png` – Schnee, gefühlt bis −8° · 4° kälter als gestern (1.22)
@@ -249,6 +255,6 @@ Mit simulierten Daten (Beispieltermine, Beispielverbindungen):
 - `urlaub_800x480.png`, `urlaub_480x800.png` – Urlaubsbild: Abfahrtstafel mit Zielwetter (1.23)
 - `wahlkampf_800x480.png`, `wahlkampf_480x800.png` – Wahlkampf-Karte am Tag mit Wahlkampftermin (1.23)
 - `iss_800x480.png`, `iss_480x800.png` – Nachtbild mit ISS-Überflug (erfundene Bahndaten, 1.23)
-- `livestream_800x480.png`, `livestream_480x800.png` – während der Ratssitzung: QR-Code zum Livestream (1.25)
+- `livestream_800x480.png`, `livestream_480x800.png` – während der Ratssitzung: QR-Code zum Livestream (1.25), Katze am Rednerpult (1.27)
 
 Die übrigen Bilder stammen aus früheren Versionen und zeigen die Katze noch nicht.
